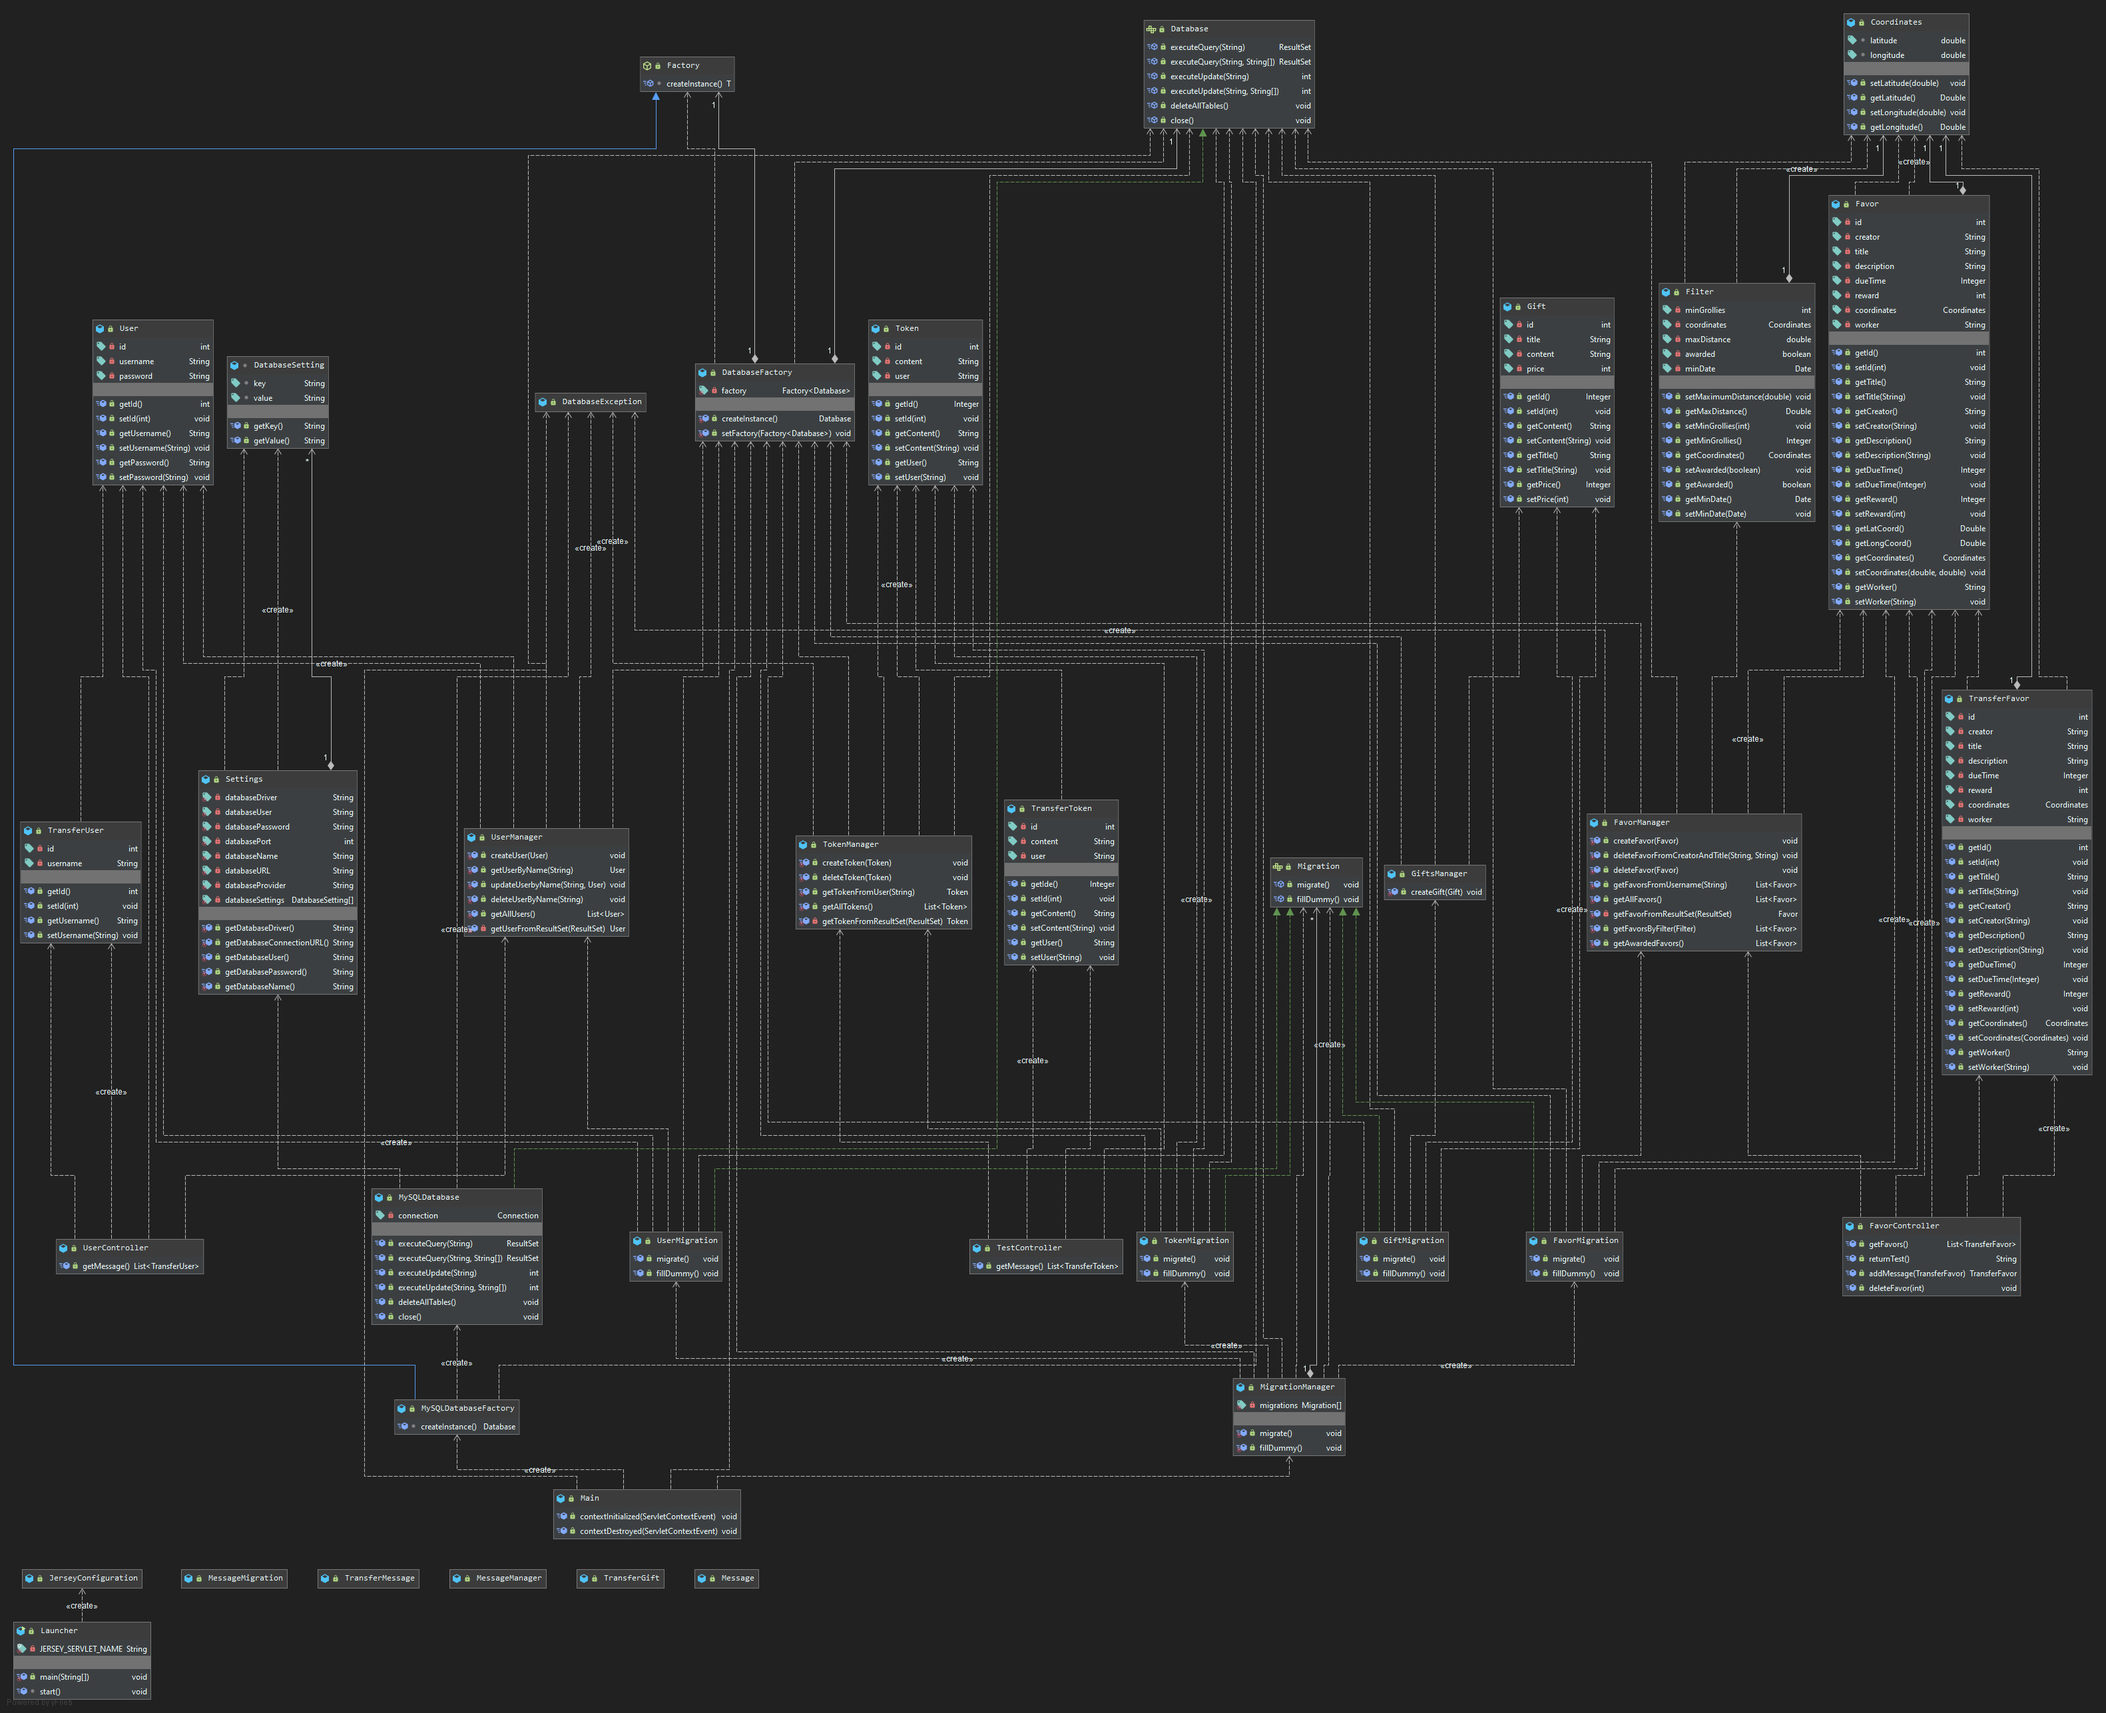
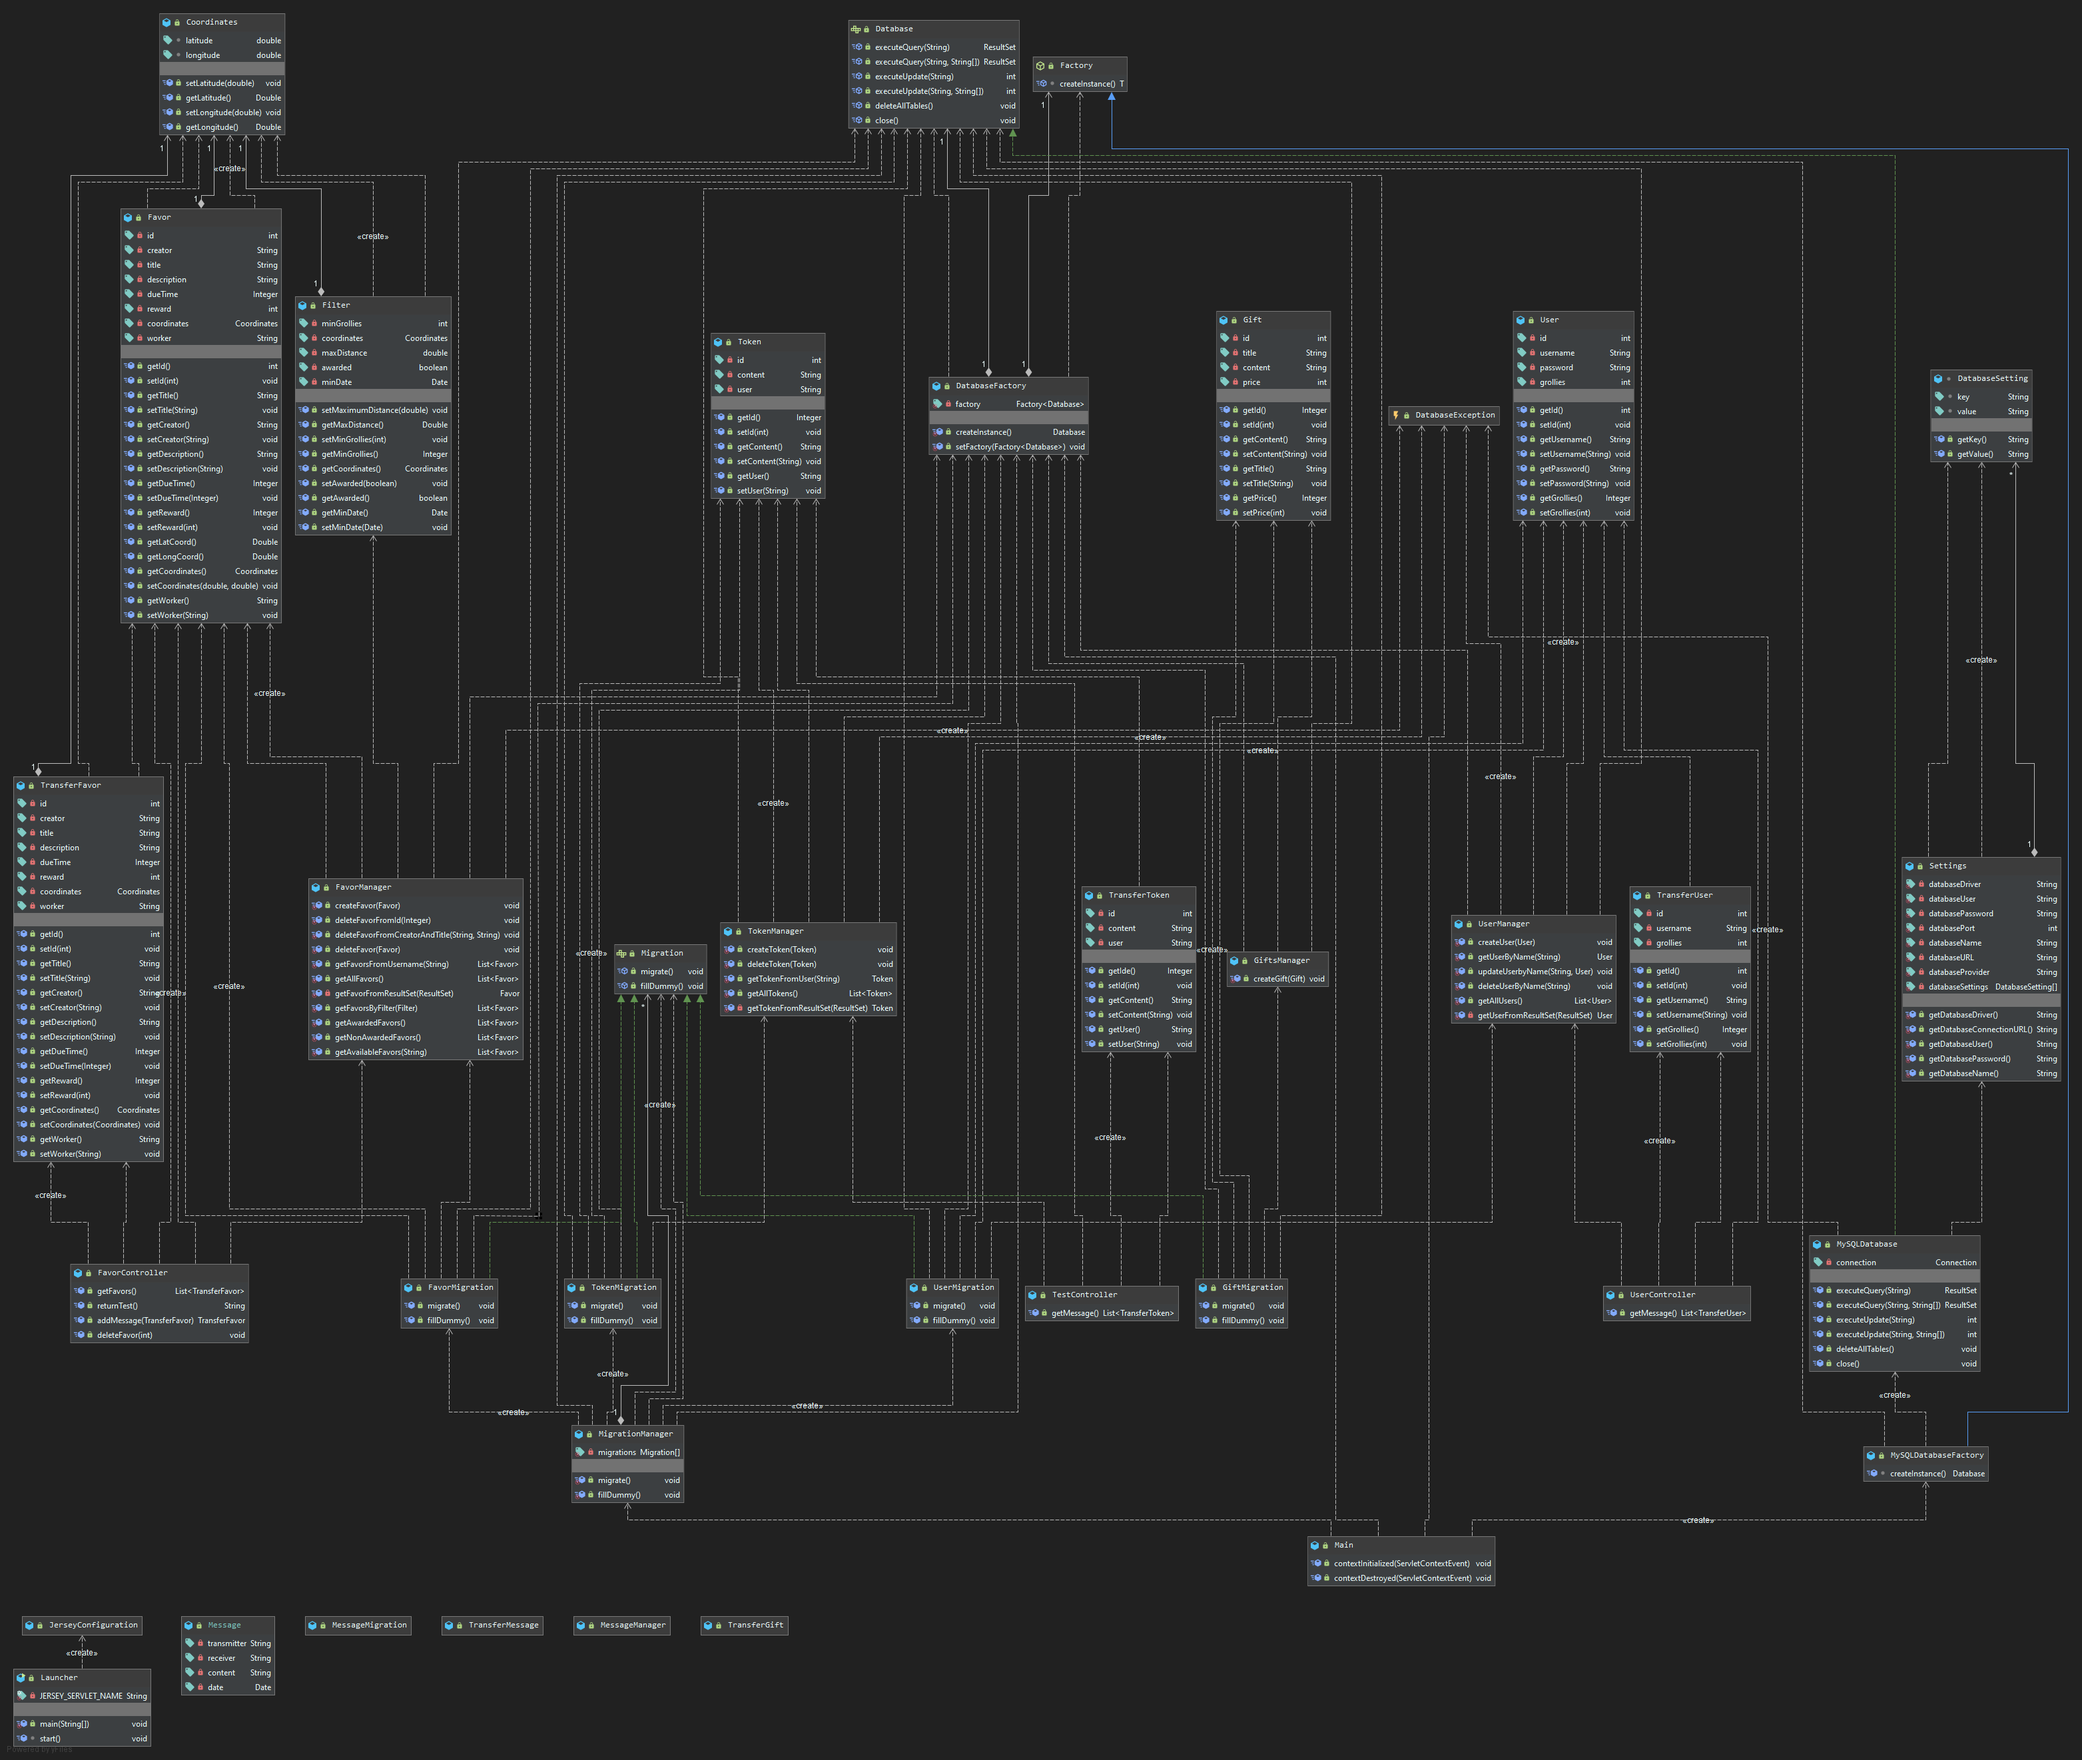
Cambios en diagrama
Nuevos atributos en message y user, nuevos metodos en user y favor

diff --git a/Server/src/main/java/com/logrolling/server/database/managers/FavorManager.java b/Server/src/main/java/com/logrolling/server/database/managers/FavorManager.java
@@ -36,6 +36,18 @@ public class FavorManager {
 
     }
 
+    public static void deleteFavorFromId(Integer id){
+        Database db = DatabaseFactory.createInstance();
+        db.executeUpdate("delete from favors where id = ?",
+                new String[]{
+                        id.toString()
+                });
+
+        db.close();
+
+
+    }
+
     public static void deleteFavorFromCreatorAndTitle(String creator, String title){
         Database db = DatabaseFactory.createInstance();
         db.executeUpdate("delete from favors where creator = ? and title = ?",
@@ -169,6 +181,49 @@ public class FavorManager {
 
         Database db = DatabaseFactory.createInstance();
         ResultSet rs = db.executeQuery("select * from favors where worker is not null");
+
+        try {
+            while (rs.next()) {
+                Favor favor = getFavorFromResultSet(rs);
+                favors.add(favor);
+            }
+        }  catch(SQLException e) {
+            throw new DatabaseException(e);
+        }
+        db.close();
+
+        return favors;
+    }
+
+    public static List<Favor> getNonAwardedFavors(){
+
+        List<Favor> favors = new ArrayList<Favor>();
+
+        Database db = DatabaseFactory.createInstance();
+        ResultSet rs = db.executeQuery("select * from favors where worker is null");
+
+        try {
+            while (rs.next()) {
+                Favor favor = getFavorFromResultSet(rs);
+                favors.add(favor);
+            }
+        }  catch(SQLException e) {
+            throw new DatabaseException(e);
+        }
+        db.close();
+
+        return favors;
+    }
+
+    public static List<Favor> getAvailableFavors(String username){
+
+        List<Favor> favors = new ArrayList<Favor>();
+
+        Database db = DatabaseFactory.createInstance();
+        ResultSet rs = db.executeQuery("select * from favors where creator <> ? and worker is null",
+                new String[]{
+                        username
+                });
 
         try {
             while (rs.next()) {

diff --git a/Server/src/main/java/com/logrolling/server/database/managers/UserManager.java b/Server/src/main/java/com/logrolling/server/database/managers/UserManager.java
@@ -23,10 +23,11 @@ public class UserManager {
 
         Database db = DatabaseFactory.createInstance();
         db.executeUpdate(
-           "INSERT INTO users (username, password) VALUES (?, ?);",
+           "INSERT INTO users (username, password, grollies) VALUES (?, ?, ?);",
         new String[]{
             user.getUsername(),
-            user.getPassword()
+            user.getPassword(),
+            user.getGrollies().toString()
         });
 
         db.close();
@@ -63,12 +64,13 @@ public class UserManager {
 
         int id = user.getId();
 
-        db.executeUpdate("replace into users values(?, ?, ?);",
+        db.executeUpdate("replace into users values(?, ?, ?, ?);",
                 new String[]{
 
                         Integer.toString(id),
                         newUser.getUsername(),
-                        newUser.getPassword()
+                        newUser.getPassword(),
+                        newUser.getGrollies().toString()
                 });
 
         db.close();
@@ -112,7 +114,8 @@ public class UserManager {
         return new User(
                 rs.getInt("id"),
                 rs.getString("username"),
-                rs.getString("password")
+                rs.getString("password"),
+                rs.getInt("grollies")
         );
     }
 

diff --git a/Server/src/main/java/com/logrolling/server/database/migrations/UserMigration.java b/Server/src/main/java/com/logrolling/server/database/migrations/UserMigration.java
@@ -16,9 +16,10 @@ public class UserMigration implements Migration {
         //Create User Table
         String sqlQuery =
                 "create table users (" +
-                    "id int auto_increment,"+
+                    "id int auto_increment," +
                     "username varchar(50) not null," +
                     "password varchar(150) not null," +
+                    "grollies int," +
                     "constraint users_pk primary key (id)" +
                 ");";
 
@@ -35,9 +36,9 @@ public class UserMigration implements Migration {
     public void fillDummy() {
 
         User[] userList = new User[] {
-            new User("pedro", "password"),
-            new User("pablo", "1234"),
-            new User ("juancarlos", "defrutos")
+            new User("pedro", "password", 50),
+            new User("pablo", "1234", 30),
+            new User ("juancarlos", "defrutos", 0)
         };
 
         for(User user : userList) {

diff --git a/Server/src/main/java/com/logrolling/server/model/User.java b/Server/src/main/java/com/logrolling/server/model/User.java
@@ -5,16 +5,19 @@ public class User {
     private int id;
     private String username;
     private String password;
+    private int grollies;
 
-    public User(int id, String username, String password) {
+    public User(int id, String username, String password, int grollies) {
         this.id = id;
         this.username = username;
         this.password = password;
+        this.grollies = grollies;
     }
 
-    public User(String username, String password) {
+    public User(String username, String password, int grollies) {
         this.username = username;
         this.password = password;
+        this.grollies = grollies;
     }
 
     public int getId() {
@@ -40,4 +43,8 @@ public class User {
     public void setPassword(String password) {
         this.password = password;
     }
+
+    public Integer getGrollies(){ return grollies; }
+
+    public void setGrollies(int grollies){ this.grollies = grollies; }
 }

diff --git a/Server/src/main/java/com/logrolling/server/transfer/TransferUser.java b/Server/src/main/java/com/logrolling/server/transfer/TransferUser.java
@@ -8,14 +8,16 @@ public class TransferUser {
 
     private int id;
     private String username;
+    private int grollies;
 
-    public TransferUser(int id, String username) {
+    public TransferUser(int id, String username, int grollies) {
         this.id = id;
         this.username = username;
+        this.grollies = grollies;
     }
 
     public TransferUser(User user) {
-        this(user.getId(), user.getUsername());
+        this(user.getId(), user.getUsername(), user.getGrollies());
     }
 
     public int getId() {
@@ -33,4 +35,8 @@ public class TransferUser {
     public void setUsername(String username) {
         this.username = username;
     }
+
+    public Integer getGrollies(){ return grollies; }
+
+    public void setGrollies(int grollies){ this.grollies = grollies; }
 }

diff --git a/Server/src/main/java/com/logrolling/server/model/Message.java b/Server/src/main/java/com/logrolling/server/model/Message.java
@@ -1,4 +1,11 @@
 package com.logrolling.server.model;
 
+import java.util.Date;
+
 public class Message {
+
+    private String transmitter;
+    private String receiver;
+    private String content;
+    private Date date;
 }
